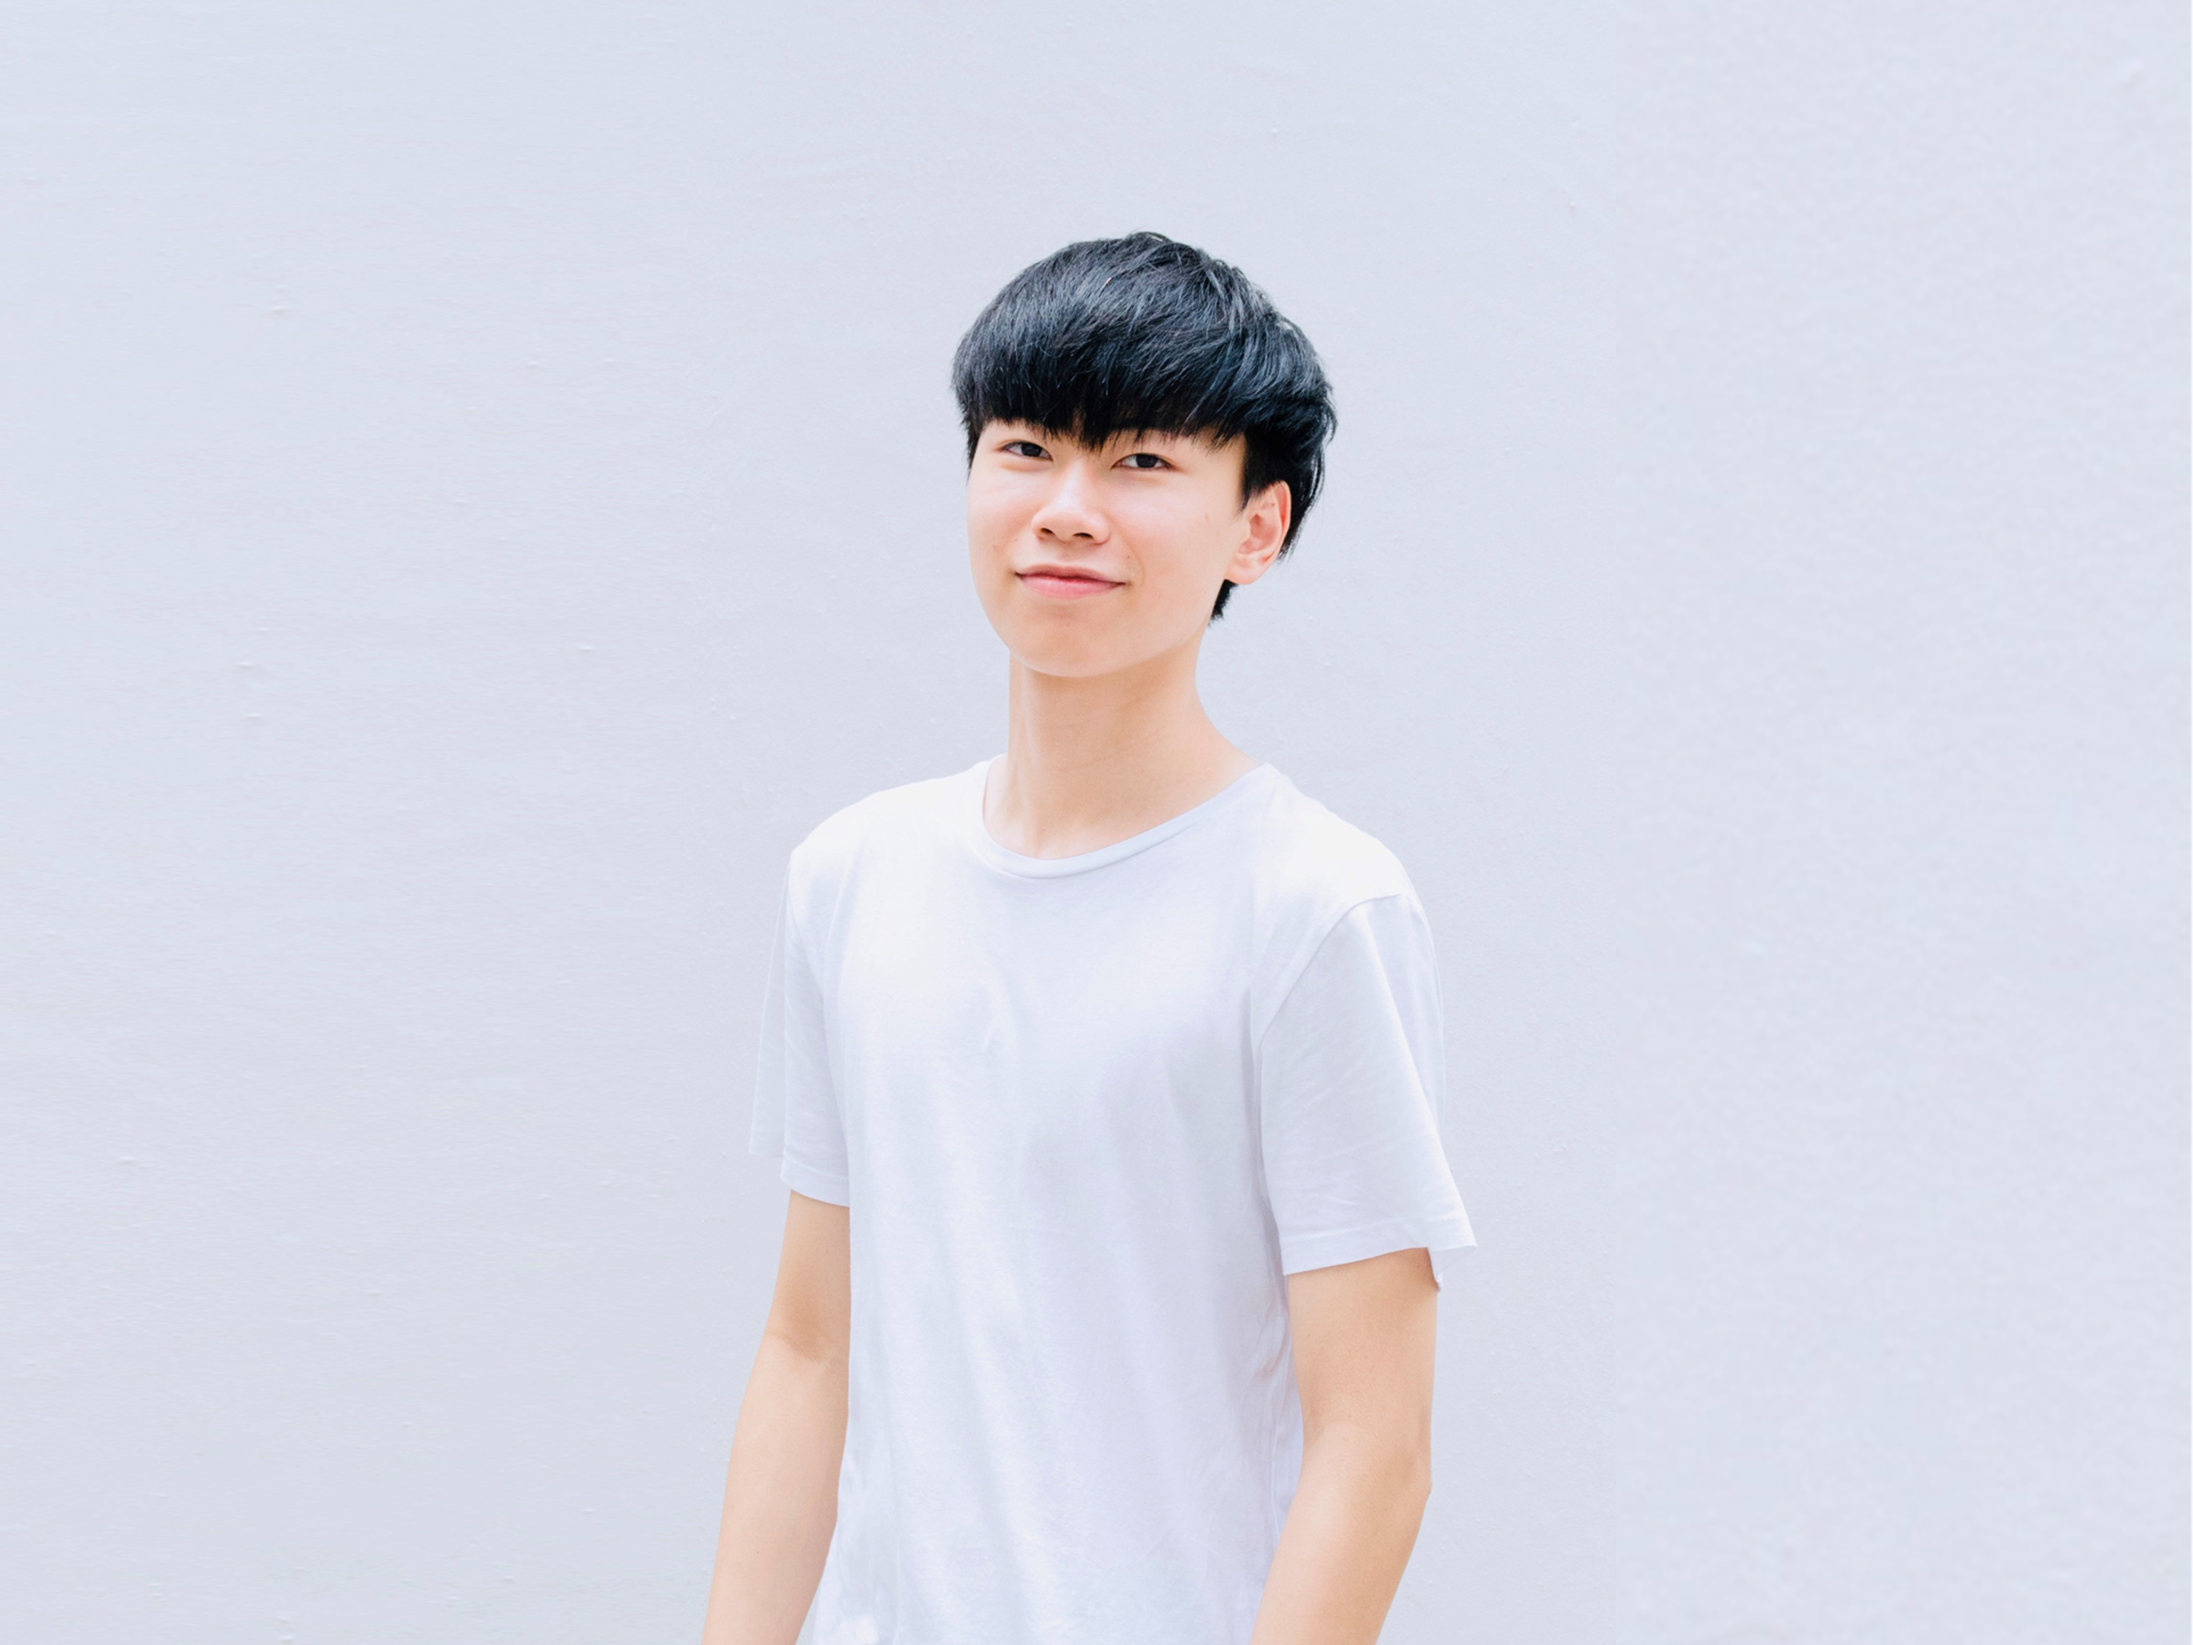
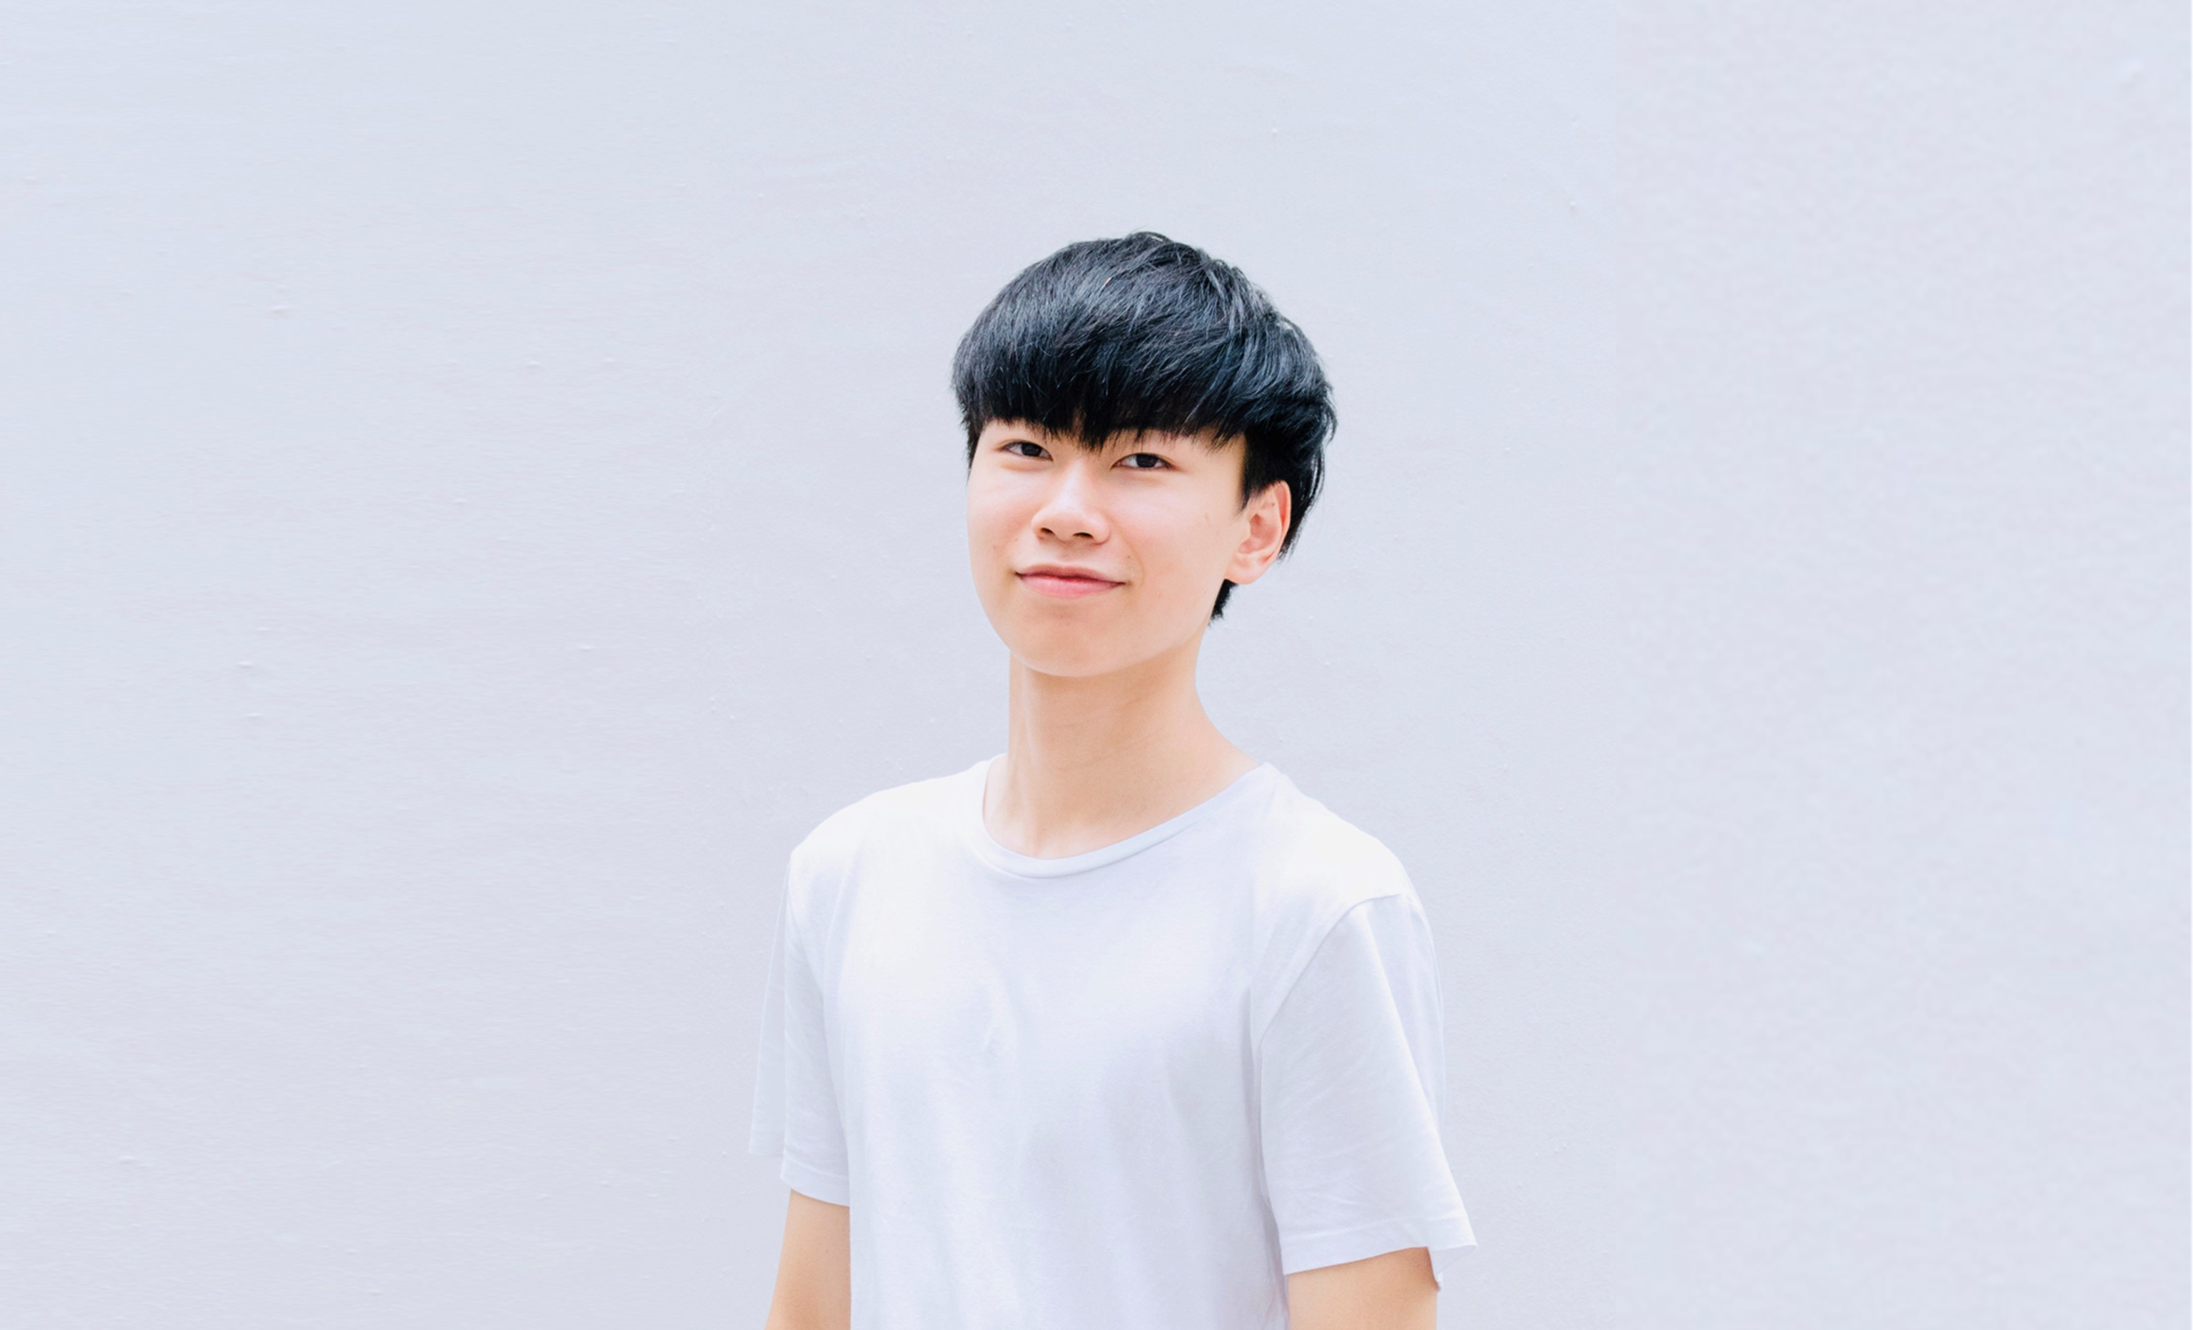
s

diff --git a/jiajiestyle.css b/jiajiestyle.css
@@ -53,7 +53,7 @@ header::before {
     position: absolute;
     right: 0;
     display: block;
-    background-image: url(image/jiajie_profile\ picture_long.jpg);
+    background-image: url(image/jiajie_profile\ picture_long2.jpg);
     background-size: 100%;
     transform-origin: center center 0;
     transform: translateZ(-1px) scale(2);
